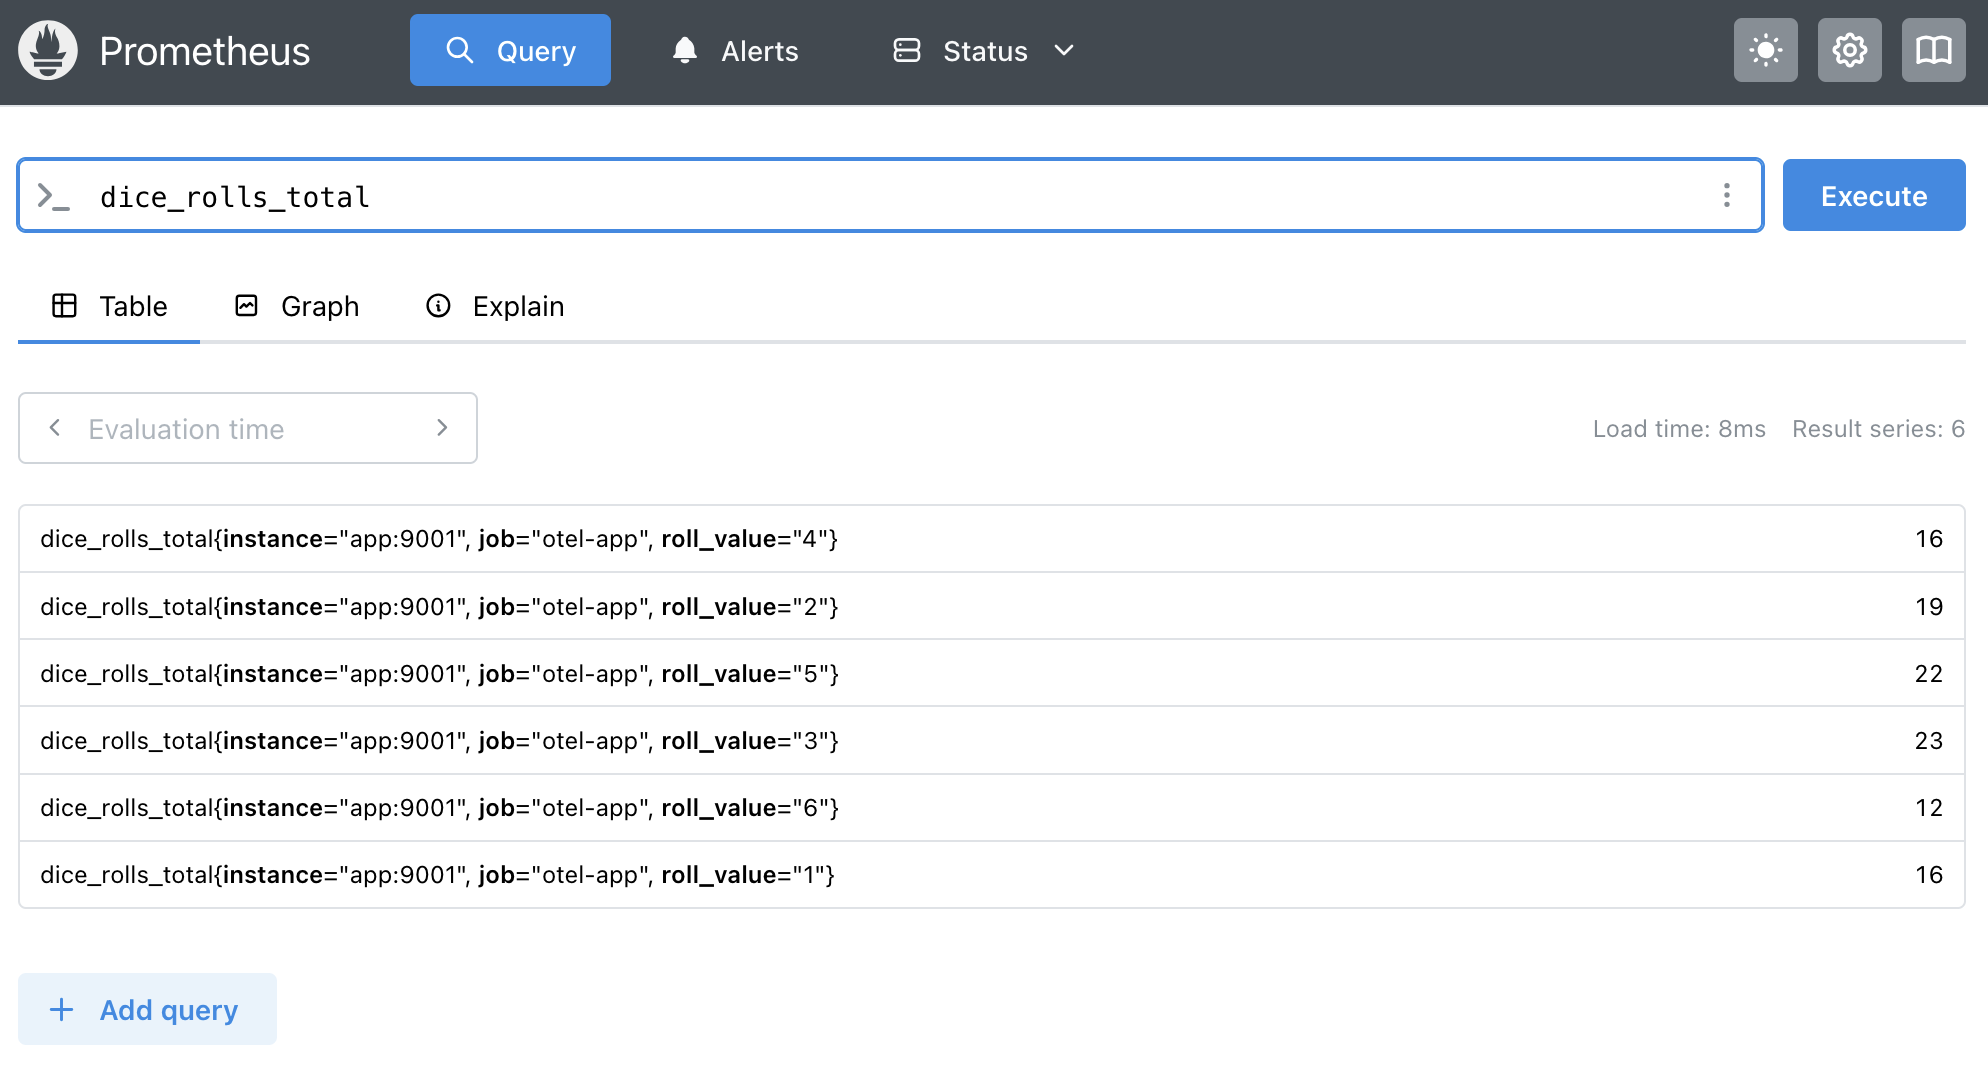
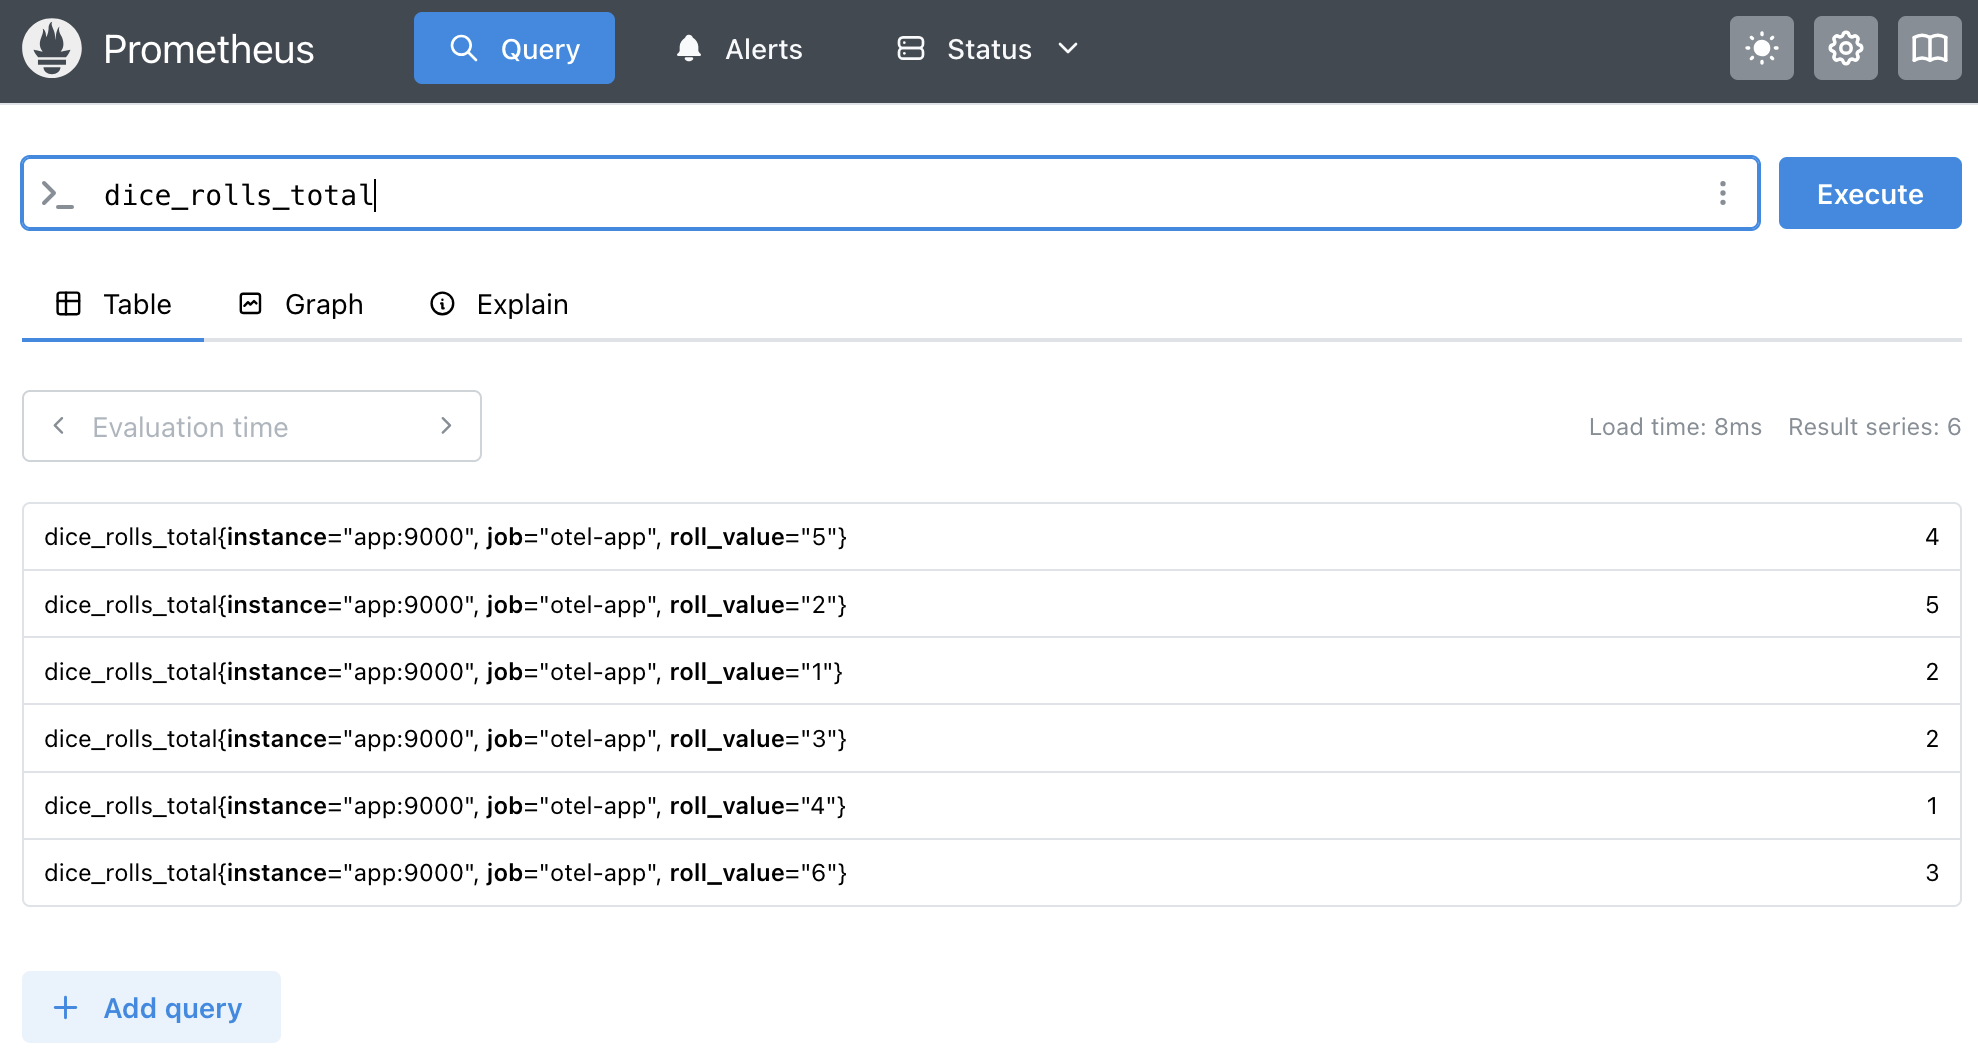
feat: slide and prometheus example improvements
- Separate out intro to metrics, logs, traces with examples
- Refactor and simplify prometheus example
- Move observability in research slide to improve flow
- Minor layout tweaks and typo fixes
- Add a couple of extra links for context

diff --git a/01-prometheus/app/app.py b/01-prometheus/app/app.py
@@ -1,0 +1,48 @@
+from werkzeug.middleware.dispatcher import DispatcherMiddleware
+from prometheus_client import make_wsgi_app, Counter
+
+from random import randint
+from flask import Flask
+import logging
+import os
+
+# Start the flask app with logging
+app = Flask(__name__)
+logging.basicConfig(level=logging.INFO)
+logger = logging.getLogger(__name__)
+
+# Add prometheus wsgi middleware to route /metrics requests
+app.wsgi_app = DispatcherMiddleware(app.wsgi_app, {
+    '/metrics': make_wsgi_app()
+})
+
+# Create a counter instrument to make measurements with
+roll_counter = Counter(
+    "dice_rolls",
+    "The number of rolls by roll value",
+    ["roll_value"]
+)
+
+
+@app.route("/")
+def roll_dice():
+    # Roll the dice (random number 1-6)
+    result = str(roll())
+
+    # Count the dice roll against a tally for that value
+    roll_counter.labels(roll_value=result).inc()
+
+    # Log the dice roll
+    logger.info("Player is rolling the dice: %s", result)
+
+    return result
+
+
+def roll():
+    return randint(1, 6)
+
+
+if __name__ == "__main__":
+    # Run the Flask app
+    flask_host = "0.0.0.0" if 'FLASK_BIND_ALL' in os.environ else "localhost"
+    app.run(host=flask_host, port=9000)

diff --git a/Slides.md b/Slides.md
@@ -11,9 +11,10 @@ footer:
 Alex Lubbock
 Rosalind Franklin Institute
 
+**git clone
 [https://github.com
 /rosalindfranklininstitute
-/rsecon25-observability-primer](https://github.com/rosalindfranklininstitute/rsecon25-observability-primer)
+/rsecon25-observability-primer](https://github.com/rosalindfranklininstitute/rsecon25-observability-primer)**
 
 ![bg right contain A QR code linking to https://github.com/rosalindfranklininstitute/rsecon25-observability-primer](github-qr-code.png)
 
@@ -66,6 +67,15 @@ Observability is most valuable when:
 
 ---
 
+# Why Observability in Research?
+
+- **Reproducibility**: ensure results can be tied to exact code, data, and environment
+- **Debugging**: batch jobs may fail hours into execution → metadata helps diagnose
+- **Performance drift**: explain why the same job took 2 hours last month, 6 hours today
+- **Collaboration**: share structured context with teammates, not just “logs.txt”
+
+---
+
 # Workloads We’ll Focus On
 
 - **Batch / HPC jobs**
@@ -73,24 +83,54 @@ Observability is most valuable when:
 - **Cloud / long-running services**
   (Web apps, APIs, servers)
 
-Different environments → different tools & strategies.
+Different environments → different tools & strategies
 
 ---
 
-# Outputs Used in Observability
+# Outputs Used in Observability - Logs
 
 - **Logs** → notable events, warnings, errors
-- **Metrics** → (numerical) state (e.g. memory usage, throughput, uptime)
-- **Traces** → sequence of function calls or request paths (e.g. Python traceback)
+- Usually timestamped
+- Examples: system start/stop, exceptions, requests
+
+
+```
+***  DEBUG  | 2025-08-08 10:07:03 | Server started
+***  INFO   | 2025-08-08 10:08:37 | Request from user Alice for IMG01.TIF
+***  WARN   | 2025-08-08 10:08:37 | Memory usage high
+***  ERROR  | 2025-08-08 10:08:38 | Out of memory
+```
 
 ---
 
-# Why Observability in Research?
+# Outputs Used in Observability - Metrics
 
-- **Reproducibility**: ensure results can be tied to exact code, data, and environment
-- **Debugging**: batch jobs may fail hours into execution → metadata helps diagnose
-- **Performance drift**: explain why the same job took 2 hours last month, 6 hours today
-- **Collaboration**: share structured context with teammates, not just “logs.txt”
+- **Metrics** → (numerical) state
+(e.g. memory usage, throughput, uptime)
+
+```
+requests_per_second{url="/process-image"} 12.2
+requests_failed{url="/process-image"} 4.0
+```
+
+
+---
+
+# Outputs Used in Observability - Traces
+
+- **Traces** → sequence of function calls or request paths
+(e.g. Python traceback, API calls)
+
+```
+Frontend
+ ├─ Auth Service      |■■■■ 12ms
+ │   └─ Imaging API   |    ■■■■■■■■■■ 30ms
+ │       └─ Database  |              ■■■■■■■■■■■■■■■ 45ms
+ └─ Metrics Service   |■■■ 9ms
+---------------------------------------------------------
+ Total span time (sum): 95ms
+ Wall clock time (end-to-end): 87ms
+```
 
 ---
 
@@ -114,8 +154,8 @@ Different environments → different tools & strategies.
 
 # Why Microbench?
 
-- Lightweight Python package
-  (`pip install microbench`)
+- Lightweight Python package:
+  `pip install microbench`
 - Decorator-based: instrument functions with **minimal boilerplate**
 - Capture (e.g.):
   - Timing
@@ -127,9 +167,23 @@ Different environments → different tools & strategies.
 
 ---
 
+# Clone the Repo to Follow Along
+
+Clone the repo, if you haven't already:
+
+```bash
+git clone https://github.com     \
+/rosalindfranklininstitute       \
+/rsecon25-observability-primer
+
+cd rsecon25-observability-primer
+```
+
+---
+
 # Environment Setup
 
-Create a Conda environment for the demo:
+Create a Conda* environment for the demo:
 
 ```bash
 cd 00-microbench
@@ -137,6 +191,8 @@ conda create -n microbench python=3.13 -y
 conda activate microbench
 pip install -r requirements.txt
 ```
+
+*Or use venv/poetry/pipenv...
 
 ---
 
@@ -236,14 +292,14 @@ Microbench captures **metadata and telemetry**, but it is **not** a replacement 
 ---
 
 # Observability: A Practical Primer for RSEs
-### OpenTelemetry Metrics for a Flask Web App
+### Adding Metrics to a Flask Web App
 
 ---
 
 # Intro to OpenTelemetry
 
 - Open-source framework for **instrumenting applications**
-- Supports **metrics, logs, traces**
+- **Standardises formats** for metrics, logs, traces
 - Vendor-agnostic: works with Prometheus, Jaeger, etc.
 - Language-agnostic: works with most popular languages
 
@@ -263,16 +319,16 @@ Microbench captures **metadata and telemetry**, but it is **not** a replacement 
 ## Docker Compose (recommended)
 
 ```bash
-cd 00-microbench
+cd 01-prometheus
 docker compose up -d
 ```
 
 ## Python
 
 ```bash
-cd 00-microbench/app
-conda create -n otel python=3.13 -y
-conda activate otel
+cd 01-prometheus/app
+conda create -n prom python=3.13 -y
+conda activate prom
 pip install -r requirements.txt
 python app.py
 ```
@@ -283,7 +339,6 @@ python app.py
 
 - Simple Flask web app
 - Endpoint: `/` → rolls a dice (1-6)
-- Track **how many times each number is rolled**
 
 ```python
 app = Flask(__name__)
@@ -292,29 +347,31 @@ app = Flask(__name__)
 def roll_dice():
     # Roll the dice (random number 1-6)
     result = str(roll())
+
+    return result
 ```
 
 ---
 
 # Adding Metrics: Dice Roll Counts (Setup)
 
-- Count **each number rolled**
-- Use **OpenTelemetry metrics API**
-- Export metrics to **Prometheus**
+- Track **how many times each number is rolled**
+- Export metrics on **/metrics** endpoint
 
 ```python
-# Setup - create a metric reader with a meter
-prefix = "DiceRoller"
-reader = PrometheusMetricReader(prefix)
-metrics.set_meter_provider(MeterProvider(metric_readers=[reader]))
-meter = metrics.get_meter_provider().get_meter("diceroller.meter")
+# Add prometheus wsgi middleware to route /metrics requests
+app.wsgi_app = DispatcherMiddleware(app.wsgi_app, {
+    '/metrics': make_wsgi_app()
+})
 
-# Now create a counter instrument to make measurements with
-roll_counter = meter.create_counter(
-    "dice.rolls",
-    description="The number of rolls by roll value",
+# Create a counter instrument with label "roll_value"
+roll_counter = Counter(
+    "dice_rolls", "The number of rolls by roll value", ["roll_value"]
 )
 ```
+
+* Other options available if not using Flask, see:
+https://prometheus.github.io/client_python/exporting/
 
 ---
 
@@ -327,7 +384,7 @@ def roll_dice():
     result = str(roll())
 
     # Count the dice roll against a tally for that value
-    roll_counter.add(1, {"roll.value": result})
+    roll_counter.labels(roll_value=result).inc()
 ```
 
 ---
@@ -348,10 +405,9 @@ def roll_dice():
 
 # Metrics Export Page
 
-- OpenTelemetry exposes a `/metrics` endpoint
-- Open web browser to http://localhost:9001/metrics
+- Prometheus exporter exposes a `/metrics` endpoint
+- Open web browser to http://localhost:9000/metrics
 - Prometheus scrapes metrics from this page
-
 
 ```
 # HELP dice_rolls_total The number of rolls by roll value
@@ -370,7 +426,7 @@ dice_rolls_total{roll_value="1"} 16.0
 
 - (Docker only) View the Prometheus UI at http://localhost:9090
 - Metrics are available for each dice number
-- Search for `dice_roll_total`
+- Search for `dice_rolls_total`
 
 ![bg right contain drop-shadow A list of metrics values for the dice roll app, as a search query within the Prometheus web interface](prometheus-metrics-search.png)
 
@@ -379,7 +435,8 @@ dice_rolls_total{roll_value="1"} 16.0
 # Aggregated Metrics Over Time
 
 - On the Prometheus **Graph** tab, search for
-  `sum by () (dice_rolls_total{instance='app:9001', job='otel-app'})`
+  `sum by () (dice_rolls_total{instance='app:9000', job='otel-app'})`
+- This shows total number of dice rolls over time
 - PromQL allows SQL-like querying, aggregation
 
 ![bg right contain drop-shadow A line graph showing the value of a Prometheus metric over time, within the Prometheus web interface](prometheus-time-series-graph.png)
@@ -392,6 +449,7 @@ dice_rolls_total{roll_value="1"} 16.0
 - Monitor **errors & exceptions**
 - Database query metrics
 - Custom application events
+- https://prometheus.io/docs/concepts/metric_types/
 
 ---
 
@@ -423,6 +481,7 @@ dice_rolls_total{roll_value="1"} 16.0
 - OpenTelemetry + Prometheus Exporter: [https://opentelemetry.io/docs/instrumentation/python/exporters/prometheus/](https://opentelemetry.io/docs/instrumentation/python/exporters/prometheus/)
 - Loki (log aggregation): [https://grafana.com/oss/loki/](https://grafana.com/oss/loki/)
 - Jaeger (trace aggregation): [https://www.jaegertracing.io/](https://www.jaegertracing.io/)
+- Microsoft on Observability: [https://microsoft.github.io/code-with-engineering-playbook/observability/](https://microsoft.github.io/code-with-engineering-playbook/observability/)
 
 ---
 
